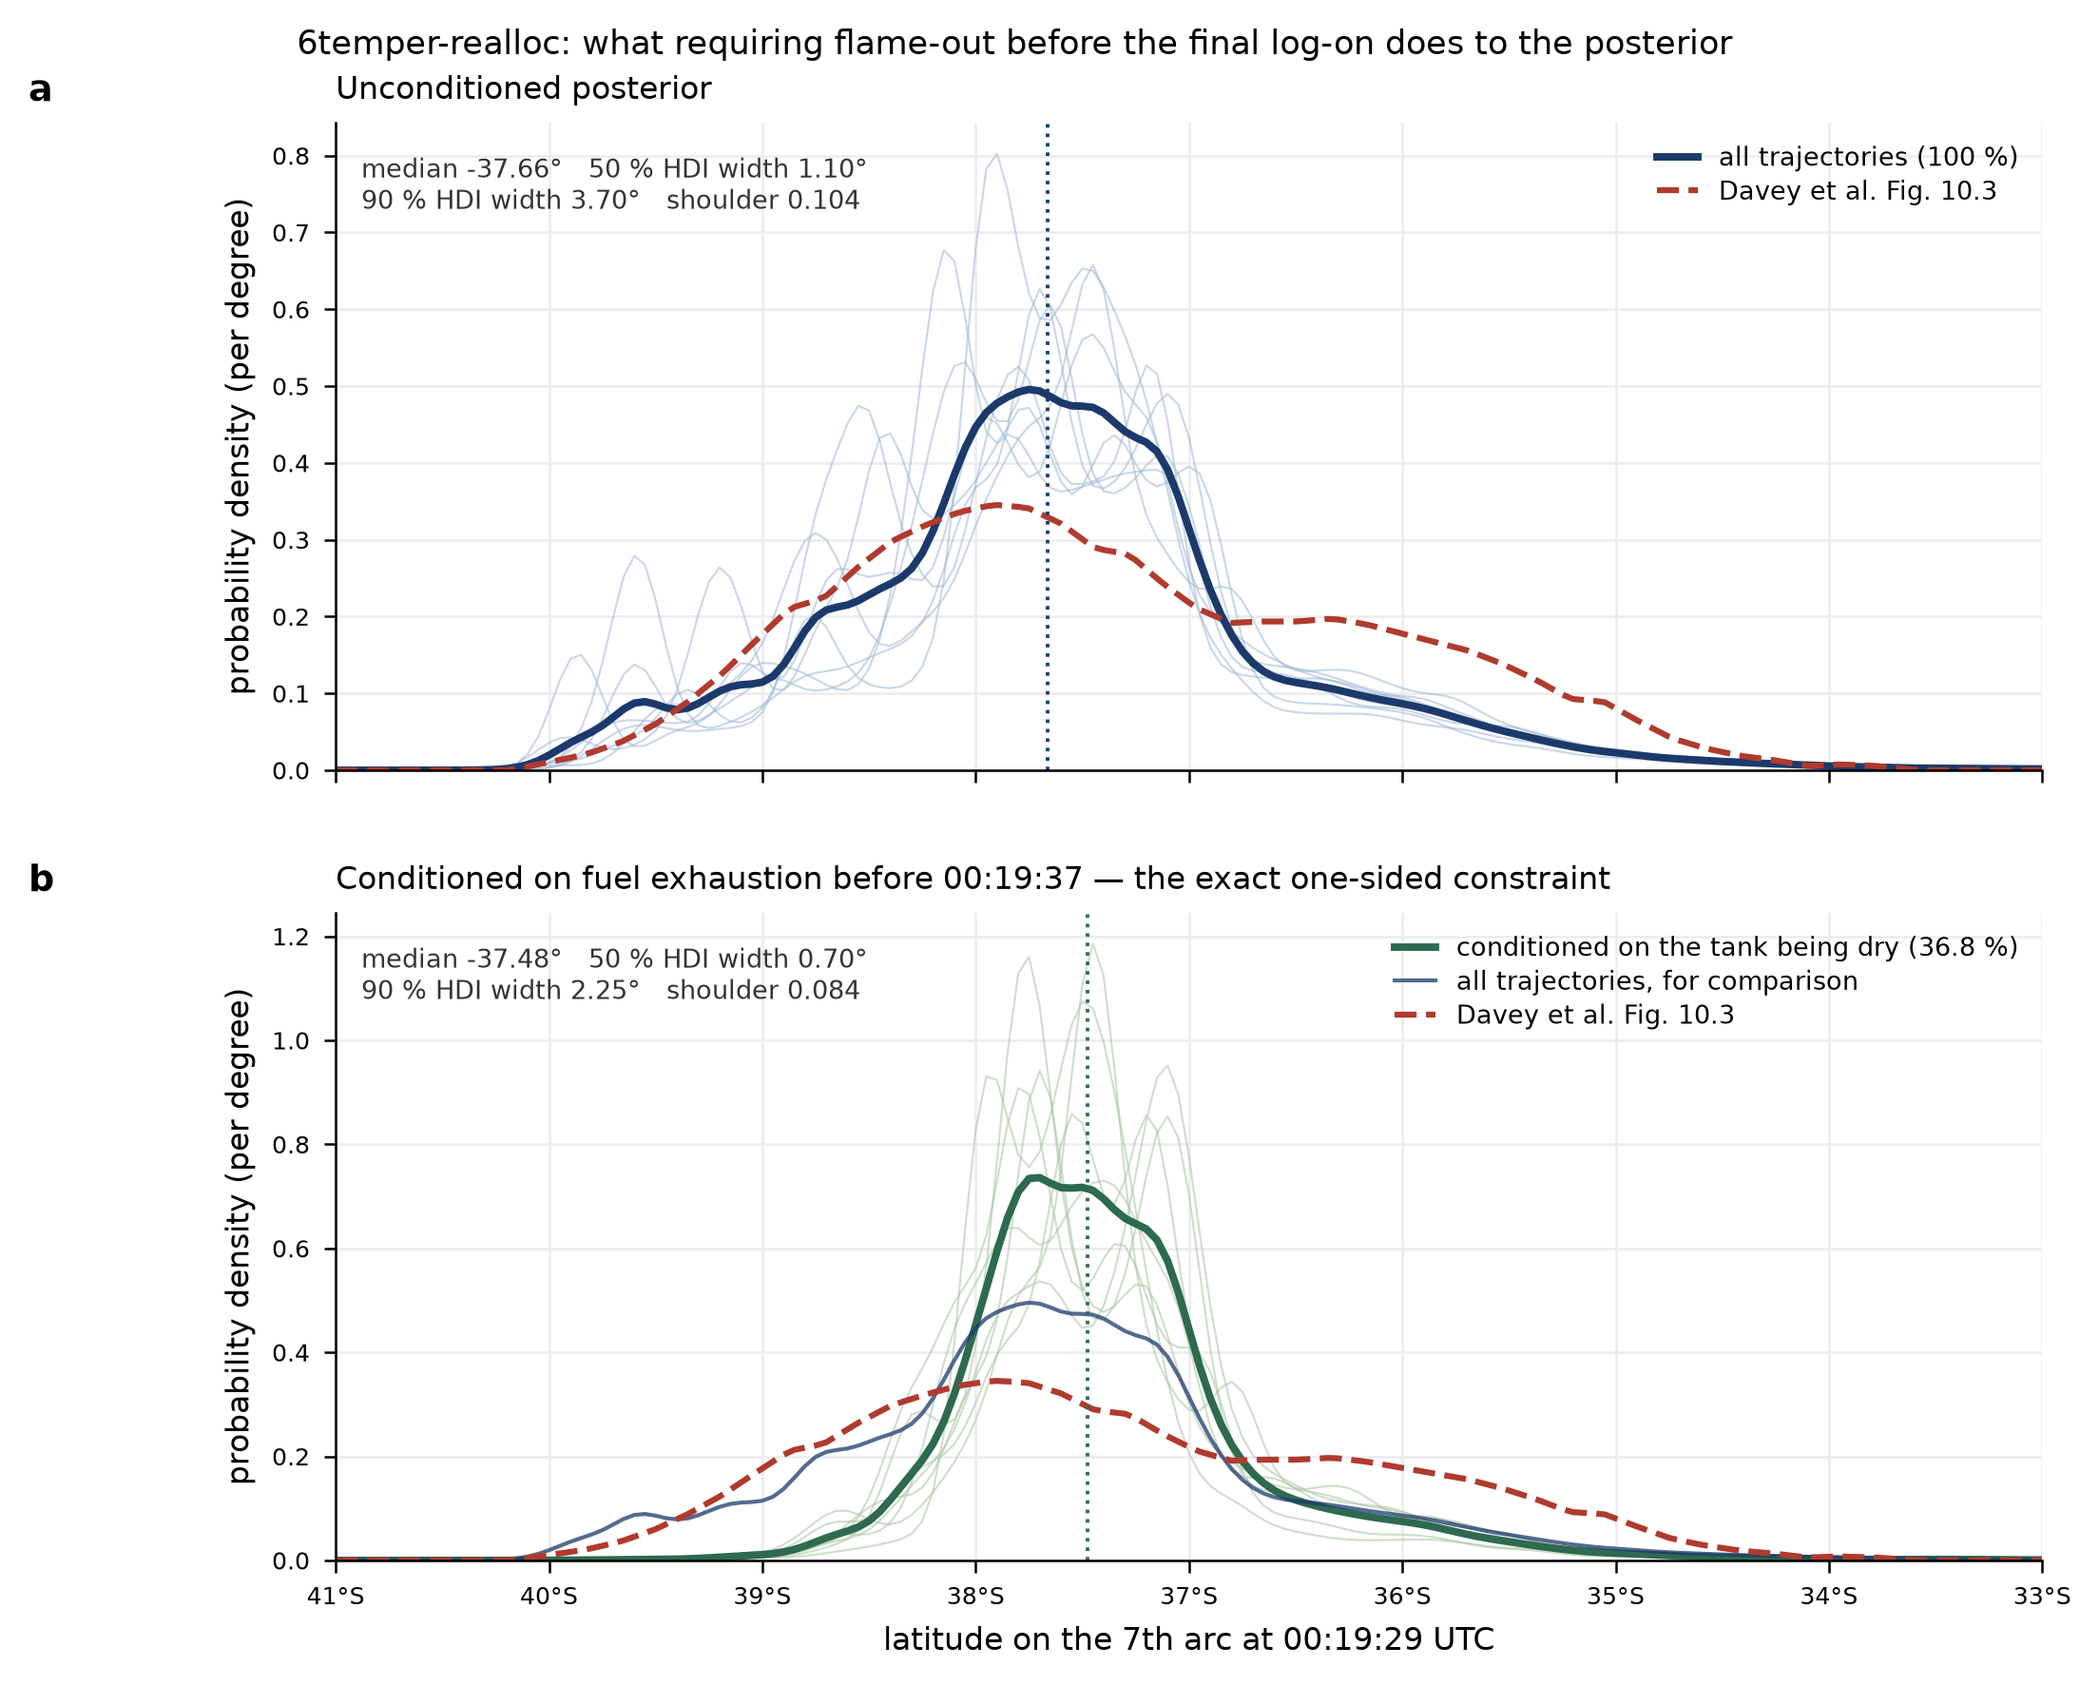
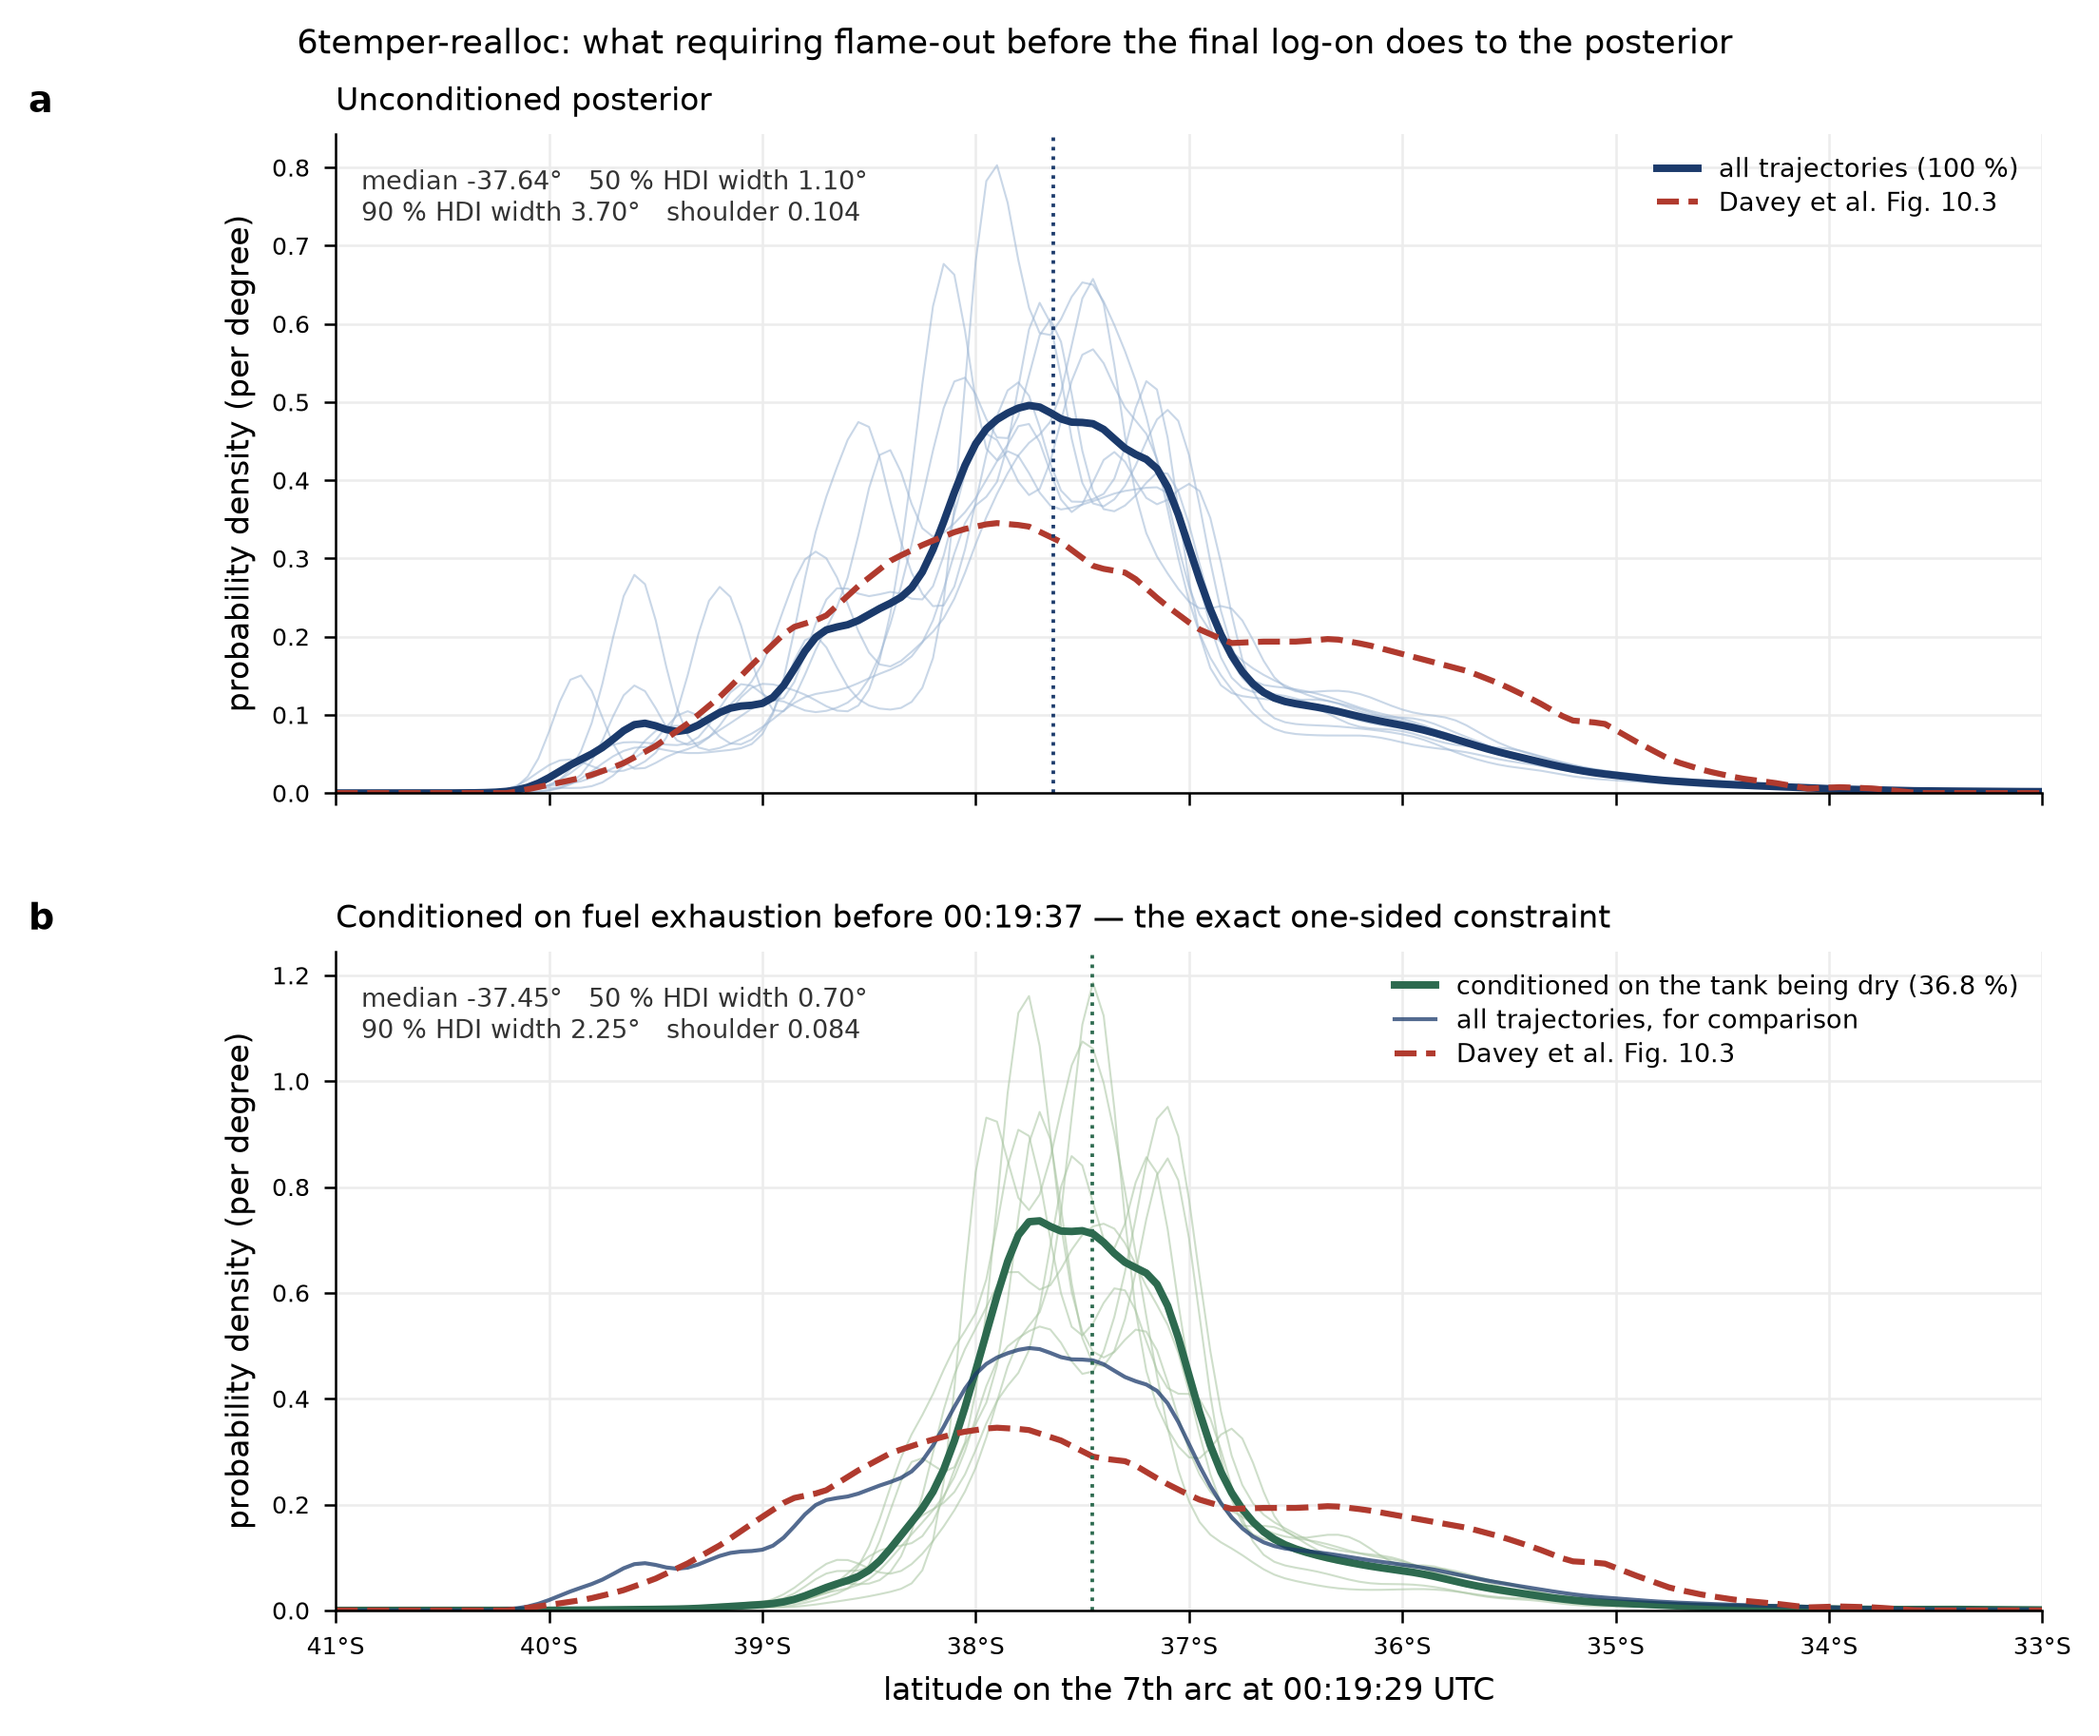
Propagate the median fix to the other two conditioning figures and the note
Same half-bin bias, same 0.025 degree correction. Medians now -37.64
unconditioned, -37.45 conditioned on flame-out, -37.47 with the
sd-300 tilt divided out, against Davey's -37.532. Every difference and
every interval width is unchanged, and the note now states the
estimator and the bias that was there, so a reader comparing it with
the engine's own summary cannot be misled again.

Also replaces the vague 'moves the median 0.02 degrees' for the
tilt-removal test with the two values it moves between.

diff --git a/Claude Science Project Sep 29/results/exhaustion-prior-is-nearly-inert.md b/Claude Science Project Sep 29/results/exhaustion-prior-is-nearly-inert.md
@@ -96,7 +96,7 @@ approximation and no re-run. Computed on all eight replicates of `6temper-reallo
 | | unconditioned | **conditioned on flame-out** | conditioned, σ=300 tilt divided out |
 |---|---|---|---|
 | share of mass | 100% | 36.8% | 36.8% |
-| median | −37.66° | **−37.48°** | −37.50° |
+| median | −37.64° | **−37.45°** | −37.47° |
 | mode | −37.75° | −37.70° | −37.70° |
 | 50% HDI | [−38.15, −37.05], width 1.10° | **[−37.85, −37.15], width 0.70°** | [−37.90, −37.20], width 0.70° |
 | 90% HDI | [−39.60, −35.90], width 3.70° | **[−38.45, −36.20], width 2.25°** | [−38.50, −36.25], width 2.25° |
@@ -113,8 +113,12 @@ Five things to read off it.
 2. **It costs almost nothing in replicate agreement**, 0.9109 → 0.9053, and it keeps **78% of the
    distinct surviving roots while carrying 36.8% of the mass**. The subset is far better resolved
    than its mass share suggests, because the never-dry paths are concentrated in fewer lineages.
-3. **The median moves north by 0.18°**, from −37.66° to −37.48°, slightly *towards* Davey's
-   Fig. 10.3 median of −37.557° — 0.081° away instead of 0.104°.
+3. **The median moves north by 0.18°**, from −37.64° to −37.45°, slightly *towards* Davey's
+   Fig. 10.3 median of −37.532° — 0.081° away instead of 0.104°. (All medians in this note are
+   read off the 0.05° grid with the cumulative taken at each bin's upper edge. An earlier version
+   interpolated against the bin centres, which biased every absolute median 0.025° south —
+   exactly half a grid step — and no difference was affected. The corrected estimator reproduces
+   the engine's raw-particle medians exactly and returns Davey's as −37.5323.)
 4. **Overlap with Fig. 10.3 nevertheless falls hard, 0.793 → 0.604, and that is not a
    deterioration.** Overlap rewards agreement in *shape*, and the conditioned posterior is much
    narrower than Davey's. Davey has no fuel model — Assumption 4 substitutes a Mach floor for the
@@ -123,7 +127,8 @@ Five things to read off it.
    worse. **Overlap with Fig. 10.3 must stop being used as a figure of merit once a constraint
    Davey did not have is imposed.**
 5. **The residual σ=300 s tilt is doing nothing**, which is the same 0.09-nat conclusion from the
-   other direction: dividing it out moves the median 0.02° and leaves both intervals identical.
+   other direction: dividing it out moves the median from −37.452° to −37.472°, two hundredths of
+   a degree, and leaves both intervals identical.
 
 The shoulder drops from 0.1042 to 0.0843, which is 35.0% of Davey's 0.2406 against 43.3%
 unconditioned. So the flame-out constraint takes the project *further* from reproducing the
